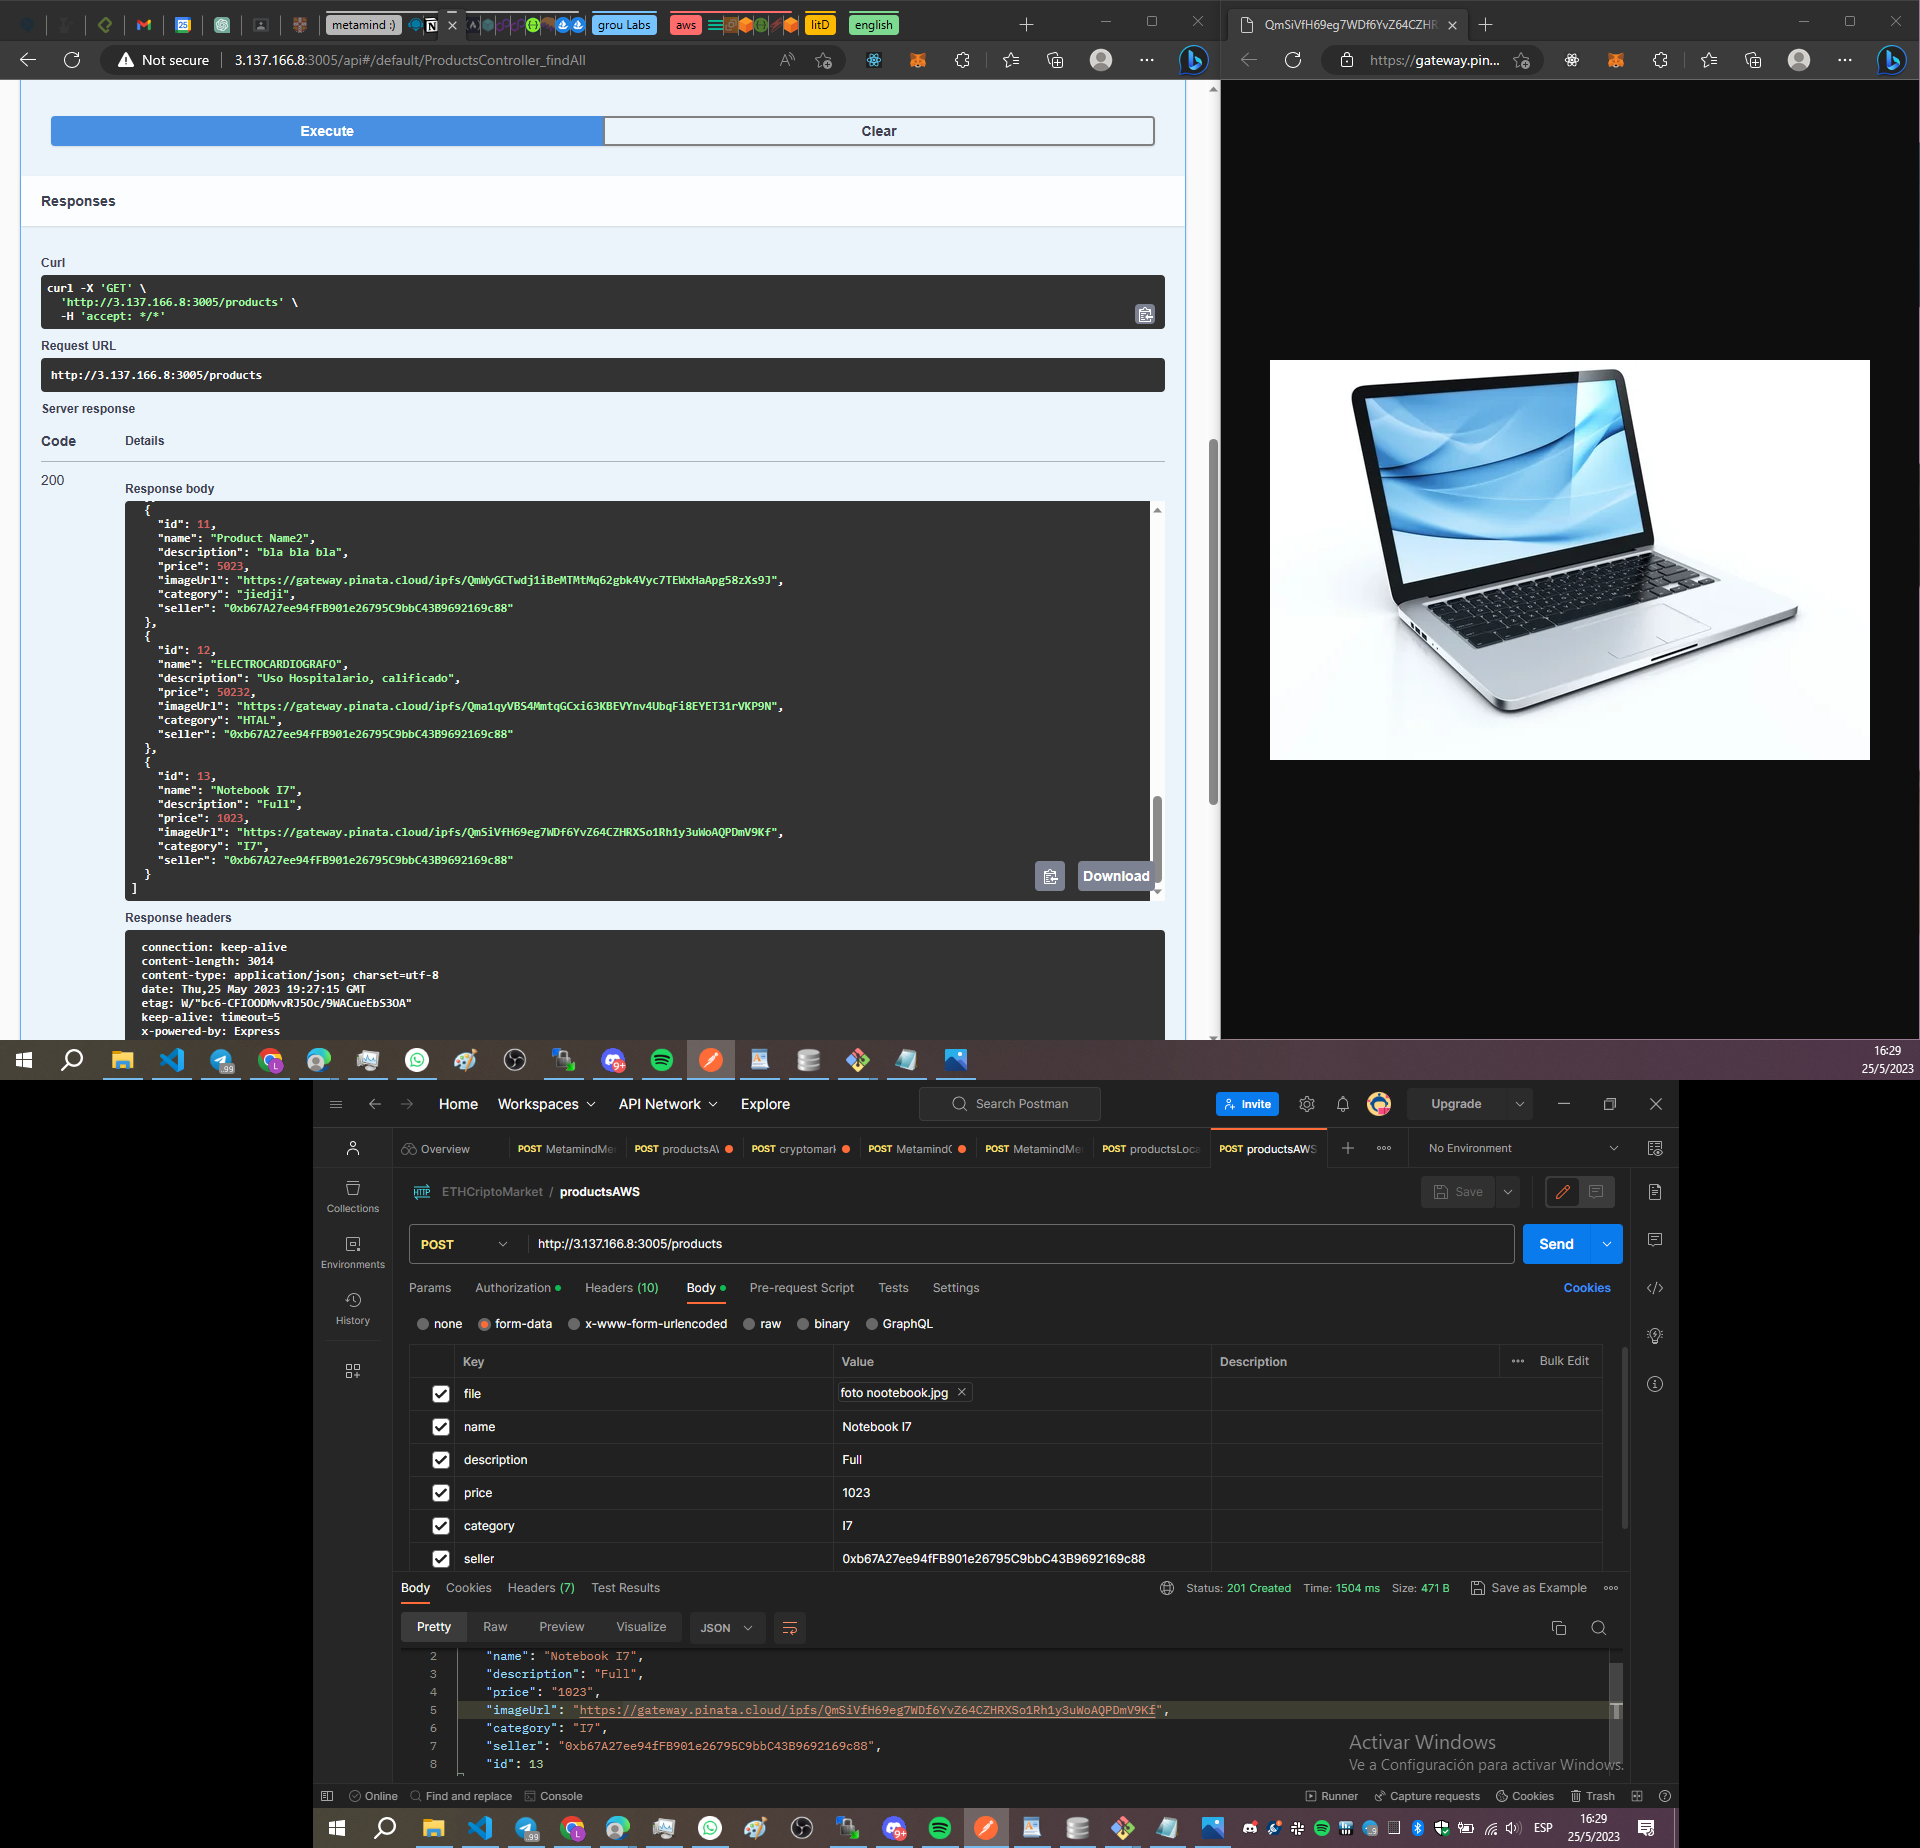
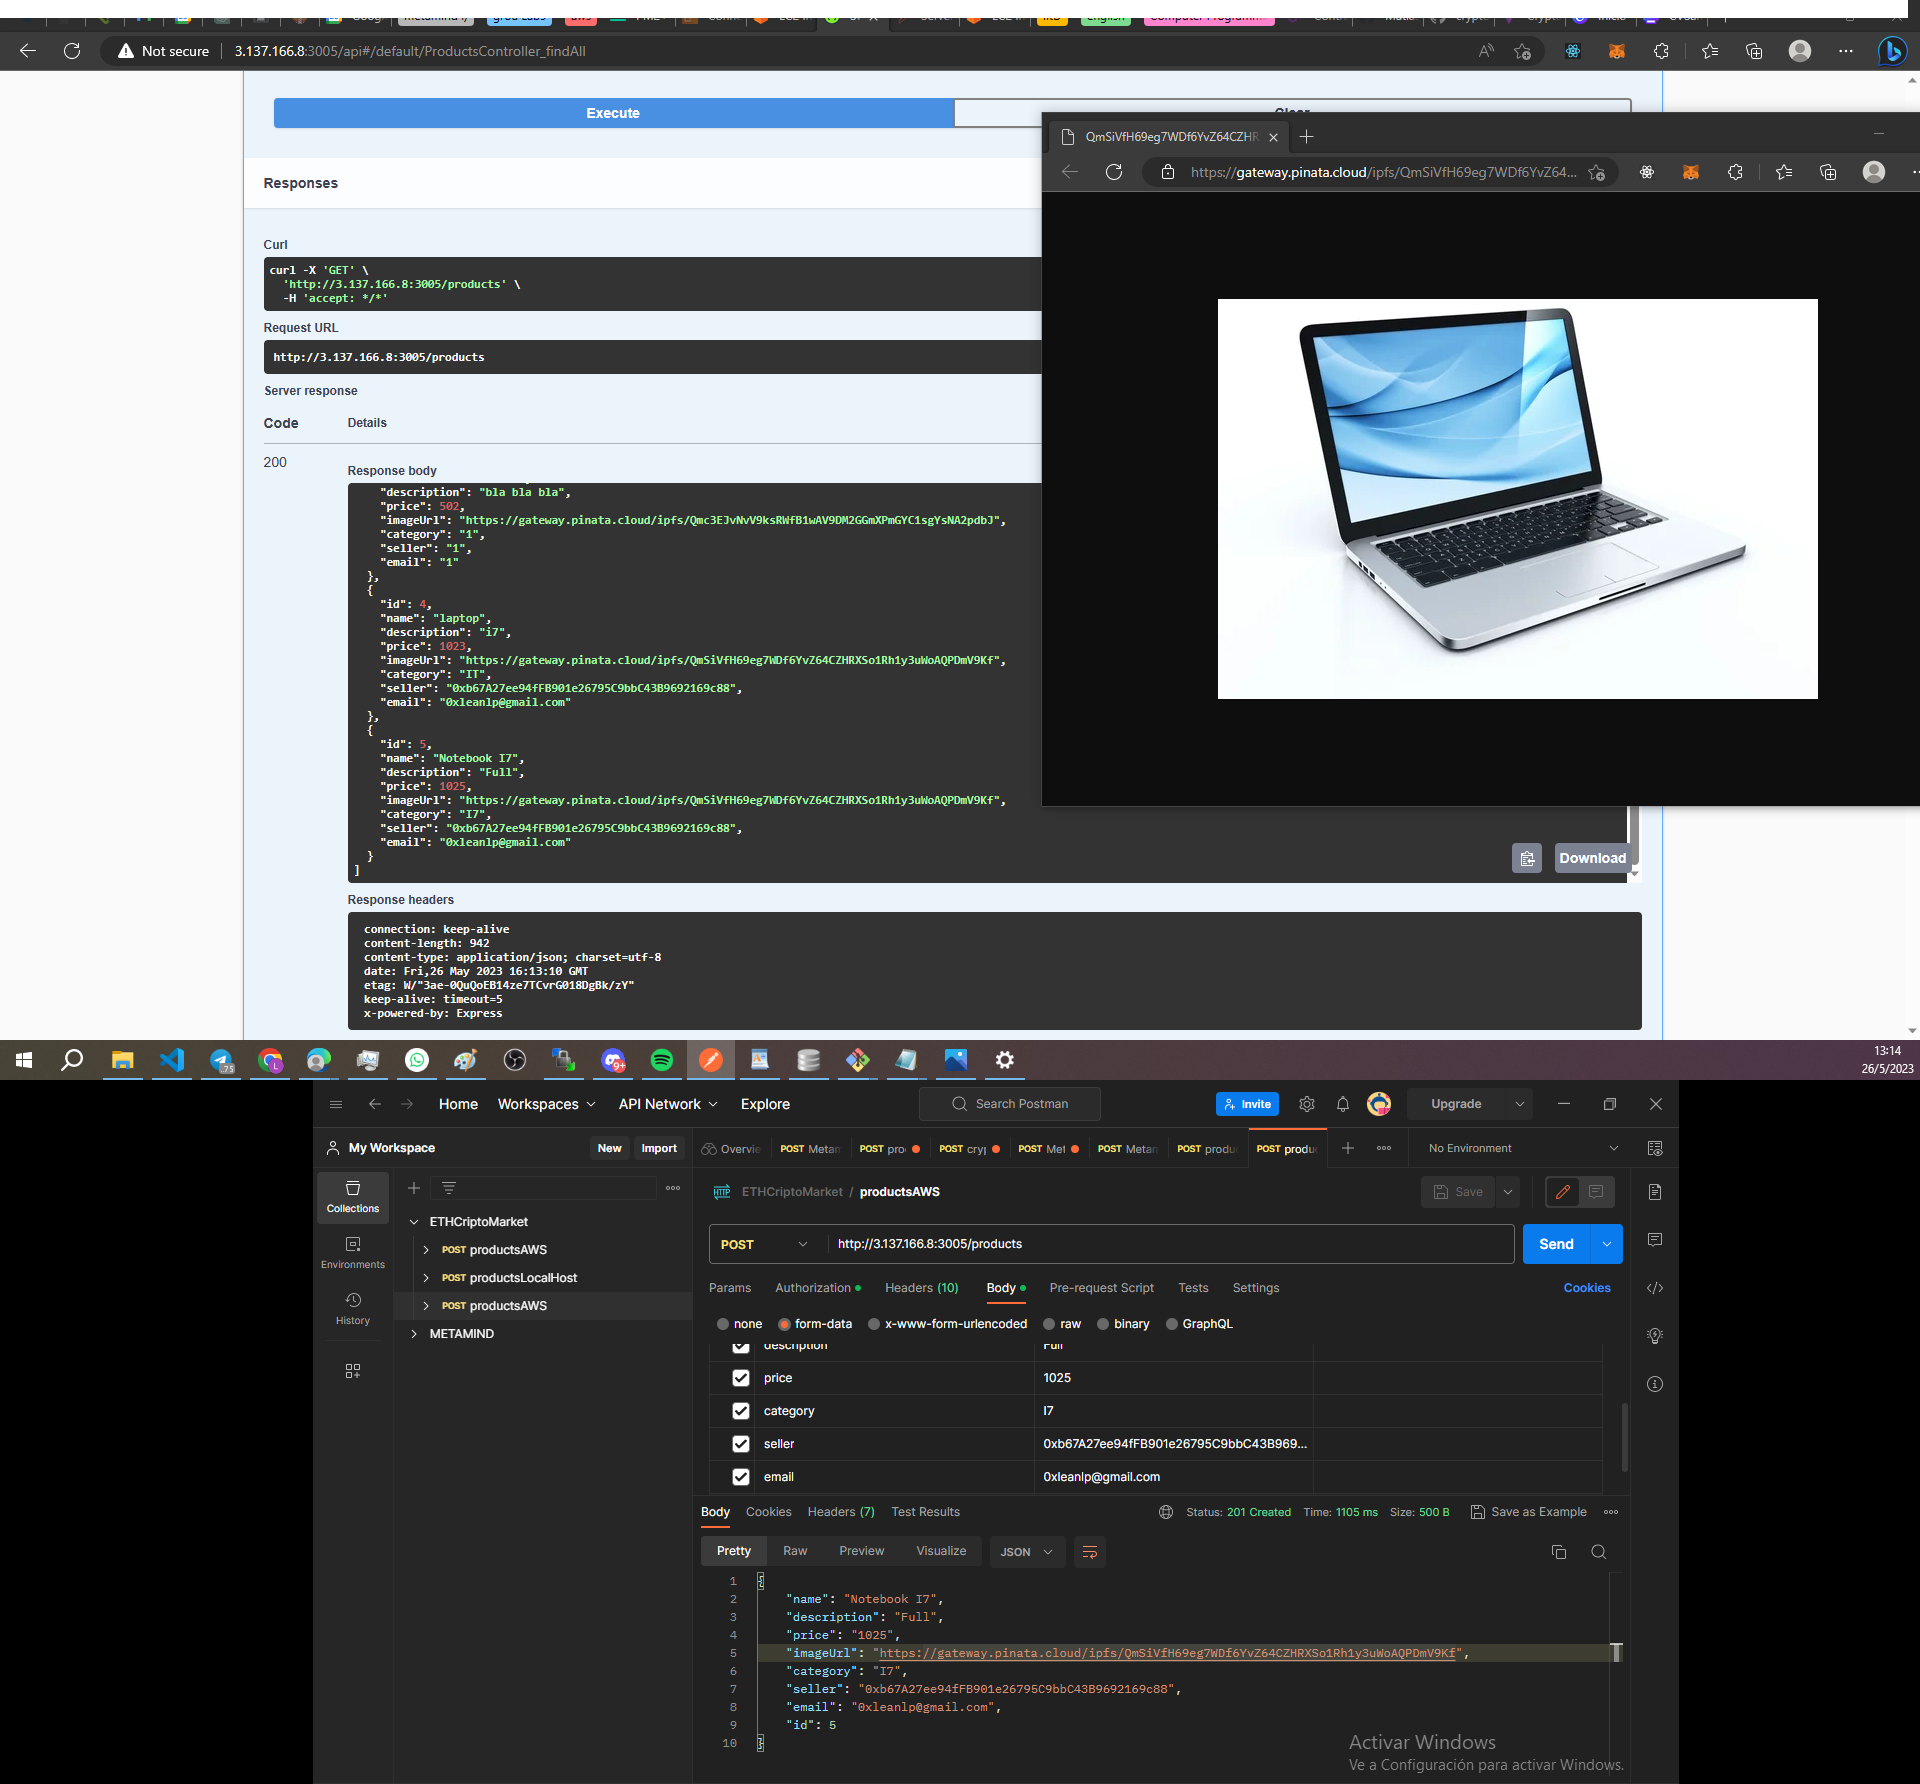
email

diff --git a/backend/src/products/products.service.ts b/backend/src/products/products.service.ts
@@ -23,6 +23,7 @@ export class ProductsService {
     newProduct.imageUrl = createProductDto.imageUrl;
     newProduct.category = createProductDto.category;
     newProduct.seller = createProductDto.seller;
+    newProduct.email = createProductDto.email;
 console.log(newProduct)
     return await this.productRepository.save(newProduct);
   }

diff --git a/backend/src/products/dto/create-product.dto.ts b/backend/src/products/dto/create-product.dto.ts
@@ -18,4 +18,7 @@ export class CreateProductDto {
 
     @ApiProperty()
     seller: string;
+
+    @ApiProperty()
+    email: string;
   }

diff --git a/backend/src/products/product.entity.ts b/backend/src/products/product.entity.ts
@@ -24,4 +24,7 @@ export class Product {
     @Column({ }) 
     seller: string;
 
+    @Column({ }) 
+    email: string;
+
 }
